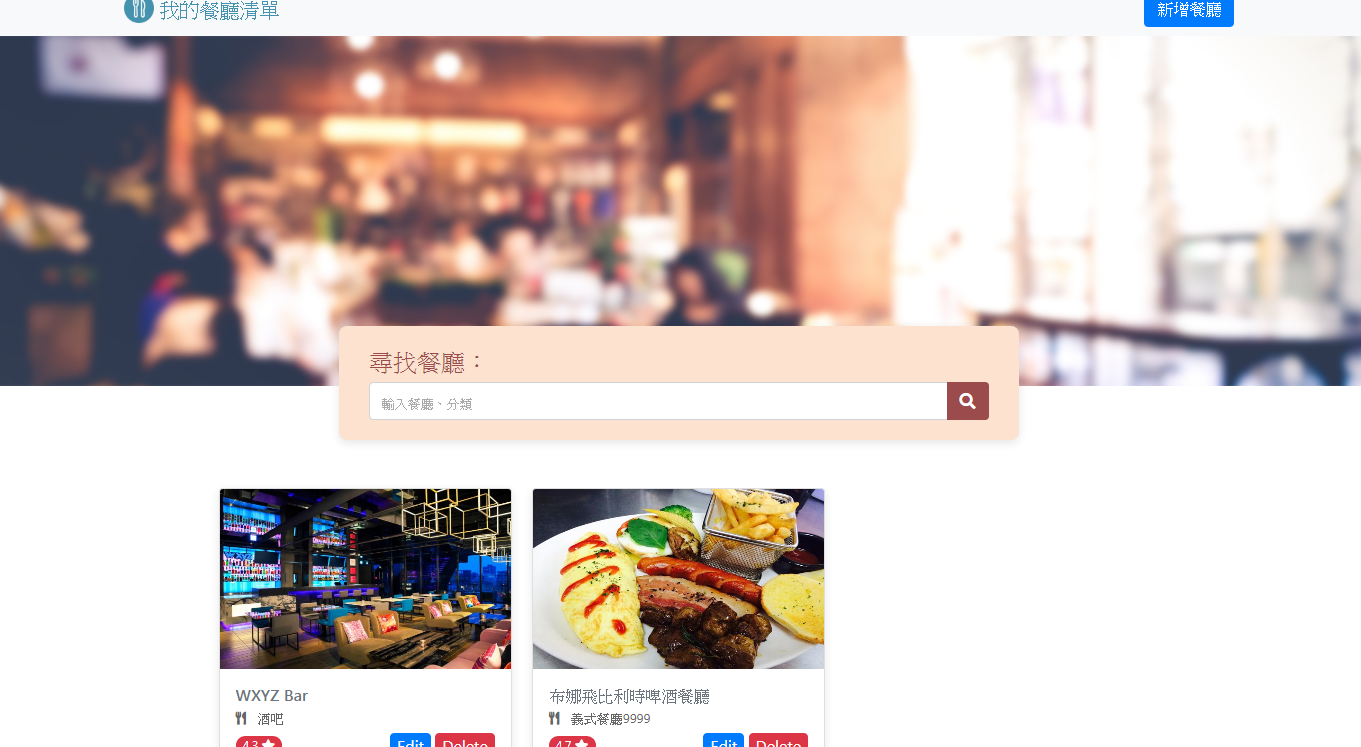
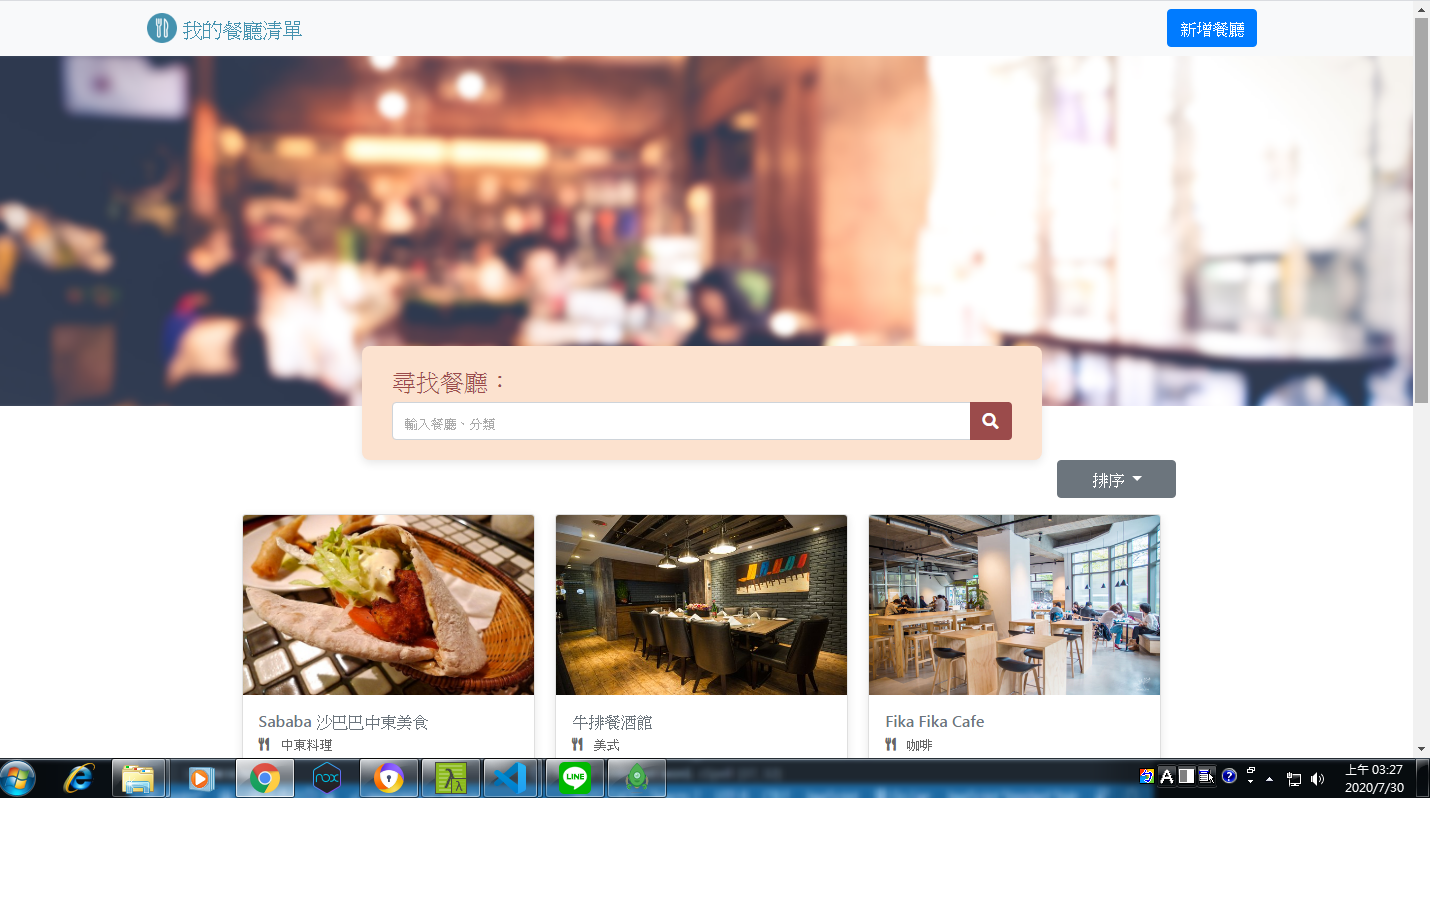
modify: README.md and restaurantDB.png

diff --git a/README.md b/README.md
@@ -3,7 +3,7 @@
 ### 此網站是由node.js與express共同打造的，並加入資料庫的CRUD操作。
 
 ---
-![image](https://github.com/CoreyHuang/ALPHAcamp_restaurant-DB-/blob/master/restaurantDB.png)
+![image](https://github.com/CoreyHuang/ALPHAcamp_restaurant_DB_refactor.git/blob/master/restaurantDB.png)
 ## Features(功能描述):
 #### 使用者可以瀏覽全部餐廳。
 #### 使用者可以搜尋喜愛的餐廳名稱與餐廳類別。
@@ -11,6 +11,7 @@
 #### 使用者可以新增喜愛的餐廳。
 #### 使用者可以修改餐廳內的相關內容。
 #### 使用者可以刪除不喜歡或過時的餐廳。
+#### 使用者可以依照個人需求排序餐廳。
 
 
 ## installation and execution(安裝與執行步驟):
@@ -37,7 +38,7 @@ npm install -g nodemon
 #### `<執行步驟>`
 #### 1. 使用terminal下載專案
 ```
-git clone https://github.com/CoreyHuang/ALPHAcamp-restaurant.git
+git clone https://github.com/CoreyHuang/ALPHAcamp_restaurant_DB_refactor.git
 ```
 #### 2. 安裝npm套件(package.json)
 ```
@@ -69,3 +70,4 @@ URL: http://localhost:3000/
 #### 2. express-handlebars : v5.1.0
 #### 3. mongoose : v5.9.25
 #### 4. body-parser : v1.19.0
+#### 5. method-override : v3.0.0
